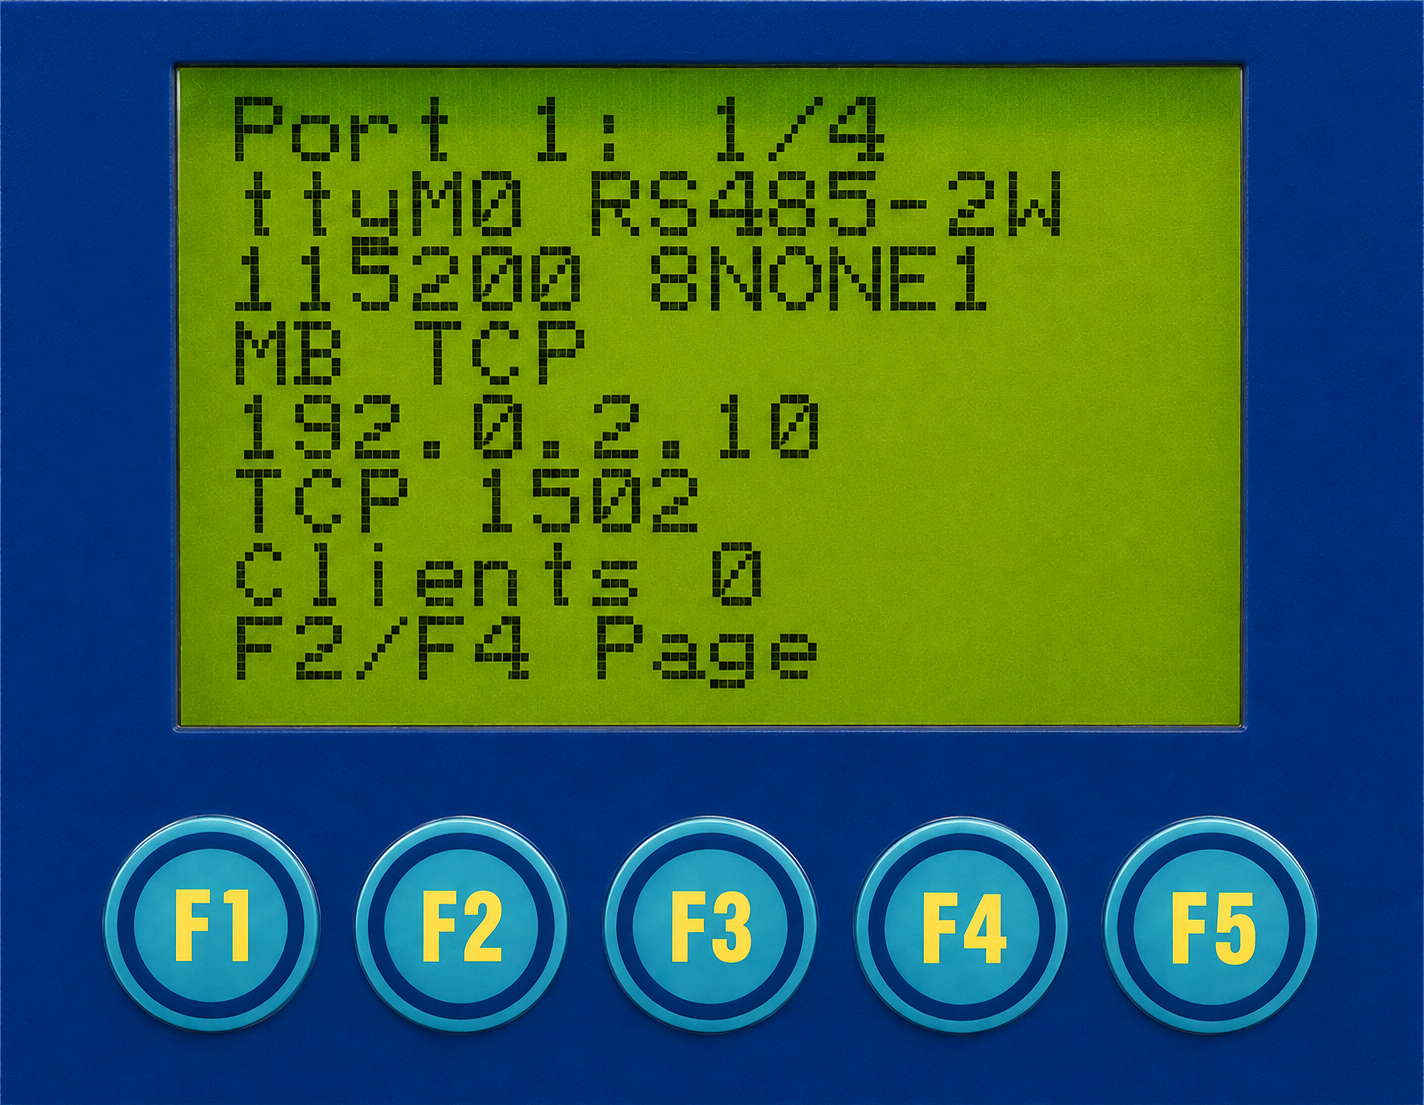
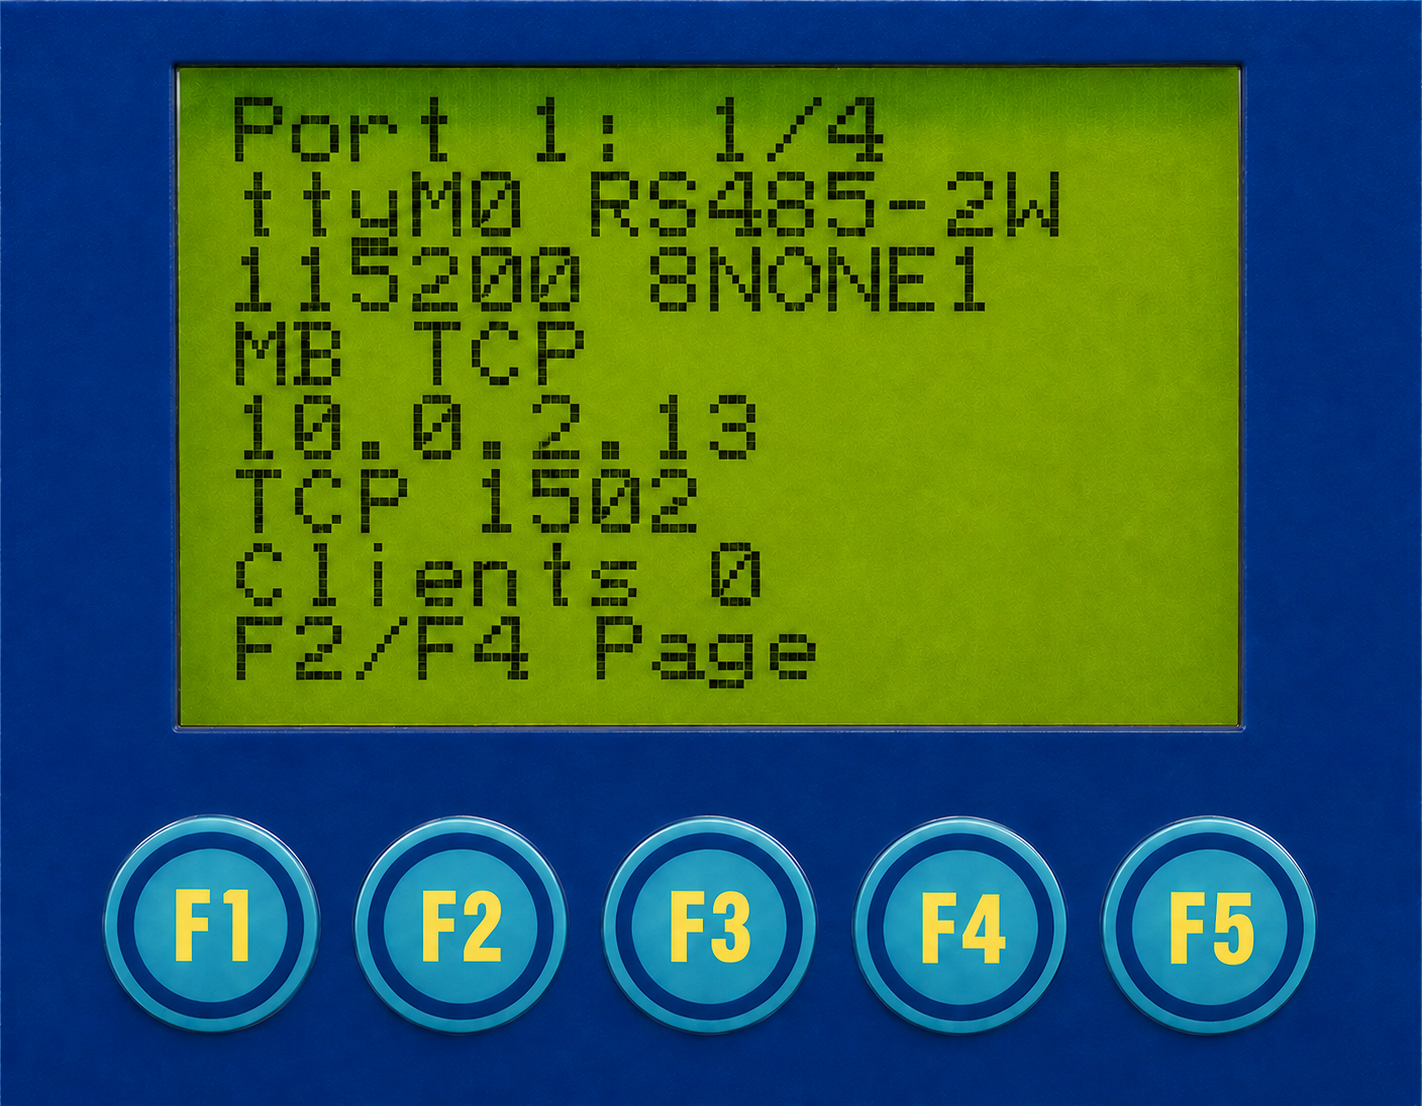
Preserve photographed network addresses consistently

diff --git a/assets/images/menu/README.md b/assets/images/menu/README.md
@@ -18,7 +18,7 @@ the explicitly substituted example address below.
 | `ports.png` | Ports / Список портов | P1–P5 visible, READY; P1 selected / Видны P1–P5, READY; выбран P1 |
 | `configuration.png` | Config / Конфигурация | P1 selected; F5 Network / Выбран P1; F5 Network |
 | `network-lan2.png` | Confirmed LAN2 / Подтверждённый LAN2 | Operator values retained / Значения снимка сохранены |
-| `port-details.png` | Port 1: 1/4 / Подробности P1 | IP replaced with `192.0.2.10`; remaining displayed values retained / IP заменён на `192.0.2.10`, остальные показания сохранены |
+| `port-details.png` | Port 1: 1/4 / Подробности P1 | Operator values retained, including IP `10.0.2.13` / Значения снимка сохранены, включая IP `10.0.2.13` |
 | `network-time.png` | Network Time / Настройки NTP | Synced, 1 h, Attempts 3; operator values retained / Synced, 1 ч, Attempts 3; значения снимка сохранены |
 
 These are explanatory illustrations, not raw screenshots, packet captures or

diff --git a/docs/user-guide.ru.md b/docs/user-guide.ru.md
@@ -94,8 +94,7 @@ F2/F4 перебирают все восемь портов, при необхо
 
 ![Первая страница подробностей порта](../assets/images/menu/port-details.png)
 
-*Рендер по фотографии; адрес устройства заменён на `192.0.2.10` для документации.
-Это не готовая настройка для копирования в вашу сеть.*
+*Иллюстрация по фотографии с сохранением настроек устройства. Это не заводские значения.*
 
 В примере `115200 8NONE1` означает 115200 бод, 8 бит данных, без чётности,
 1 стоп-бит. `TCP 1502` — порт слушателя, а не адрес прибора Modbus.

diff --git a/docs/user-guide.md b/docs/user-guide.md
@@ -91,8 +91,7 @@ F1 returns to the list. This view reports status; it does not edit configuration
 
 ![First port detail page](../assets/images/menu/port-details.png)
 
-*Rendered from a photograph; the private device address is replaced with
-`192.0.2.10` for documentation. This is not a preset to copy into your network.*
+*Rendered from a photograph with the device settings preserved. These are not factory defaults.*
 
 In this example, `115200 8NONE1` means 115200 baud, 8 data bits, no parity,
 1 stop bit. `TCP 1502` is the listener port, not the Modbus unit address.

diff --git a/README.md b/README.md
@@ -78,8 +78,7 @@ the port runtime, not a confirmed response from a connected instrument.
 
 <img src="assets/images/menu/port-details.png" alt="Port connection details" width="360">
 
-*Photo-based illustration; the device IP is replaced with the documentation
-example `192.0.2.10`.*
+*Photo-based illustration with the settings shown on the device.*
 
 The first detail page shows UART, serial mode/framing, transport and listener.
 Here P1 uses `ttyM0`, RS485-2W, 115200 baud and Modbus TCP on port 1502.
